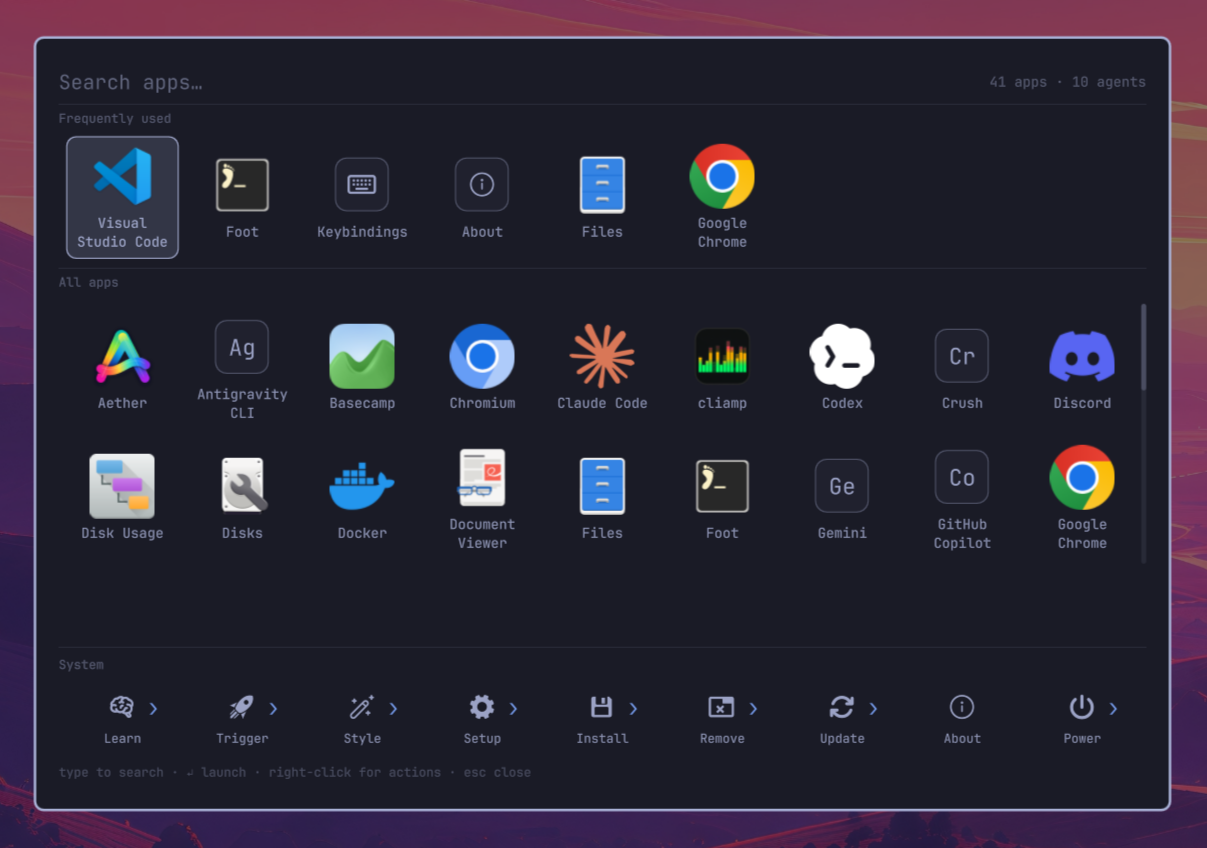
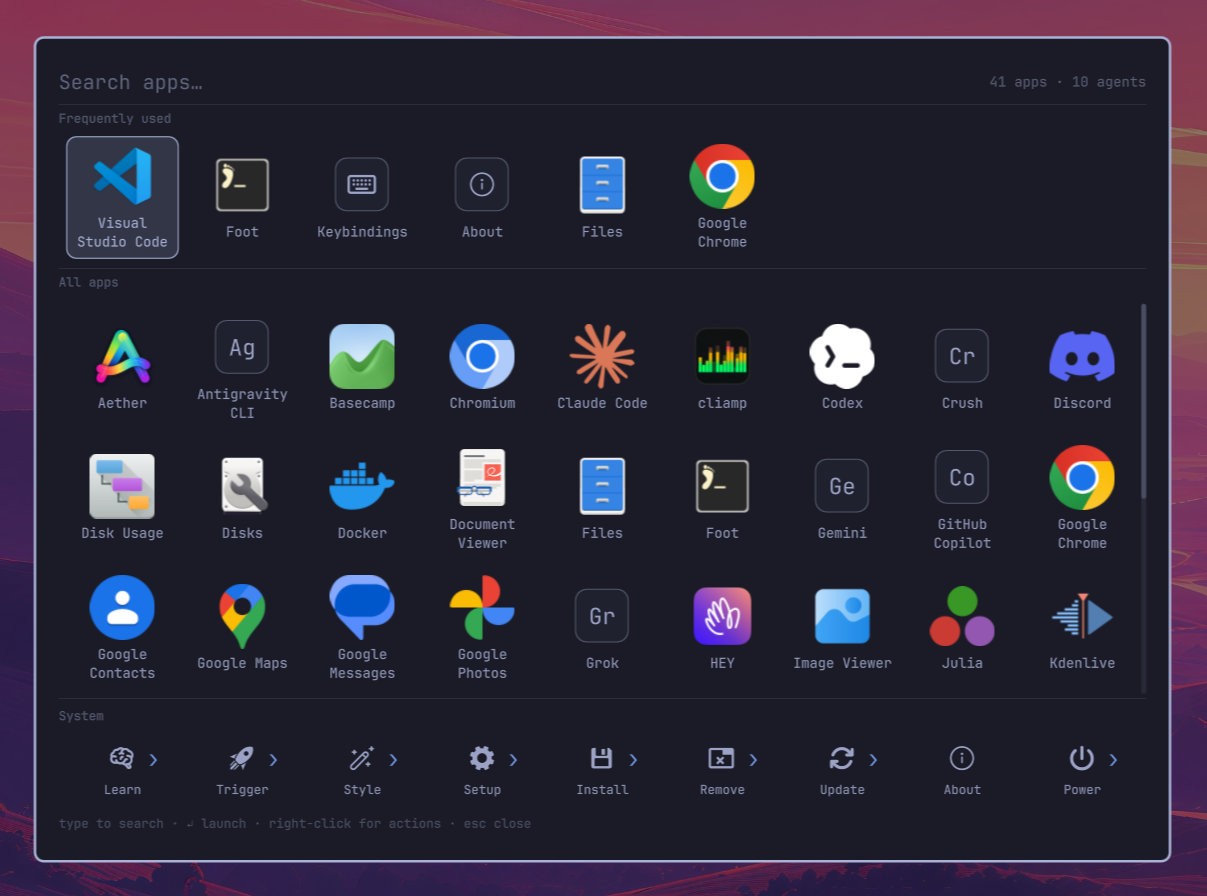
Size the card to whole application rows
The grid snaps to whole rows so the last one is never sliced, but the card's
height was a fixed 620, which is not a multiple of anything. The remainder --
63px, measured -- collected above the System divider and read as the grid
running out rather than as spacing. It also meant the System strip had cost
the grid a whole row: the card fit three rows of applications before, and two
after.

So the card now derives its height: chrome plus as many whole rows as fit.
Three rows again, and nothing left over.

The chrome is summed explicitly instead of measured as card.height minus
allArea.height, because the card's height is derived from it and reading it
back would be a binding loop. Every term is independent of the card's height,
and the sum was checked against the running layout before being relied on --
insets 40, header 34, rule 1, frequent 131, label 22, margins 9, system 90,
footer 22, totalling the 349 the instrumented build reported. A row or margin
added to the layout has to be added here too, which the comment says.

Measured as if not searching, so typing cannot resize the card under the
pointer -- verified identical at 824px idle and mid-query. A query frees the
frequent row's height and the grid takes it as extra rows.

Preview reshot: it was showing the sparse version.

diff --git a/AppGrid.qml b/AppGrid.qml
@@ -79,9 +79,10 @@ Item {
   // The strip is contextual: folders while browsing the launcher normally,
   // matching commands while a search is narrowing things down. Same pinned
   // place either way, so "system things live down there" stays true.
+  readonly property var systemRestRows: Menu.sectionRows(root.menuItems, root.menuOrder, root.whenResults, root.checkedResults)
   readonly property var systemRows: root.searching
     ? Menu.sortMatches(root.menuLeaves, root.filterText)
-    : Menu.sectionRows(root.menuItems, root.menuOrder, root.whenResults, root.checkedResults)
+    : root.systemRestRows
 
   // What the main grid shows: applications, or the folder being browsed.
   readonly property var displayRows: root.browsing
@@ -128,6 +129,7 @@ Item {
   readonly property int footerHeight: Style.font.caption + Style.spacing.md * 2
   readonly property int sectionLabelHeight: Style.font.caption + Style.spacing.md * 2
   readonly property int scrollBarWidth: Style.space(4)
+  readonly property int ruleHeight: Math.max(1, Style.space(1))
 
   // The System strip is navigation, not content, so its tiles are smaller than
   // an app tile: it costs one short row instead of a full grid row. The width
@@ -135,8 +137,43 @@ Item {
   // column-preserving up/down lands where the eye expects.
   readonly property int compactIconSize: Math.round(root.iconSize * 0.58)
   readonly property int compactCellWidth: root.cellWidth
-  readonly property int compactCellHeight: root.compactIconSize + Style.space(34)
+  readonly property int compactCellHeight: root.compactCellAtRest
     + (root.searching ? Style.font.caption + Style.space(3) : 0)
+  readonly property int compactCellAtRest: root.compactIconSize + Style.space(34)
+
+  // The card sizes itself to a whole number of application rows. The grid snaps
+  // to whole rows so the last one is never sliced, which means any height the
+  // card has beyond an exact multiple shows up as dead space above the System
+  // divider — 63px of it before this, enough to read as "the grid ran out".
+  //
+  // The chrome is summed explicitly rather than measured as `card.height -
+  // allArea.height`, because the card's height is derived from it and reading it
+  // back would be a binding loop. Every term below is independent of the card's
+  // height; if a row or margin is added to the layout it has to be added here
+  // too, or the dead space quietly returns.
+  //
+  // Measured "at rest" — as if not searching — so that typing cannot resize the
+  // card under the pointer. A query hides the frequent row, which frees height
+  // the grid takes as extra rows; whatever is left over then is a smaller gap in
+  // a view that is usually full anyway.
+  readonly property bool frequentAtRest: root.frequentPool.length > 0
+  readonly property bool systemAtRest: root.systemRestRows.length > 0
+  readonly property int stripRowsAtRest: Math.min(2, Math.max(1,
+    Math.ceil(root.systemRestRows.length / Math.max(1, panel.columns))))
+
+  readonly property int cardChrome:
+      card.contentTopInset + card.contentBottomInset
+    + root.headerHeight + root.ruleHeight
+    + (root.frequentAtRest ? root.sectionLabelHeight + root.cellHeight + Style.spacing.sm + root.ruleHeight : 0)
+    + (root.frequentAtRest ? root.sectionLabelHeight : 0)
+    + Style.spacing.md + Style.spacing.xs
+    + (root.systemAtRest ? Style.spacing.xs + root.ruleHeight + root.sectionLabelHeight
+                           + root.stripRowsAtRest * root.compactCellAtRest : 0)
+    + root.footerHeight
+
+  readonly property int cardMaxHeight: Math.min(Style.space(760), panel.height - Style.gapsOut * 2)
+  readonly property int cardGridRows: Math.max(1,
+    Math.floor((root.cardMaxHeight - root.cardChrome) / root.cellHeight))
 
   // ------------------------------------------------------------ lifecycle
 
@@ -828,7 +865,7 @@ Item {
     BorderSurface {
       id: card
       width: panel.gridWidth + root.contentMargin * 2 + root.scrollBarWidth + Style.spacing.md
-      height: Math.min(Style.space(620), panel.height - Style.gapsOut * 2)
+      height: Math.min(root.cardMaxHeight, root.cardChrome + root.cardGridRows * root.cellHeight)
       radius: root.cornerRadius
       anchors.centerIn: parent
       color: root.background

diff --git a/CHANGELOG.md b/CHANGELOG.md
@@ -28,6 +28,11 @@ Changes are grouped under `Added`, `Changed`, `Fixed`, `Removed`, `Deprecated`, 
 
 ### Changed
 
+- The card sizes itself to a whole number of application rows. The grid snaps to
+  whole rows so the last is never sliced, and the fixed card height left 63px
+  over — a half-row of dead space above the System divider that read as the grid
+  running out. Removing it also recovers the application row the System strip had
+  cost, so the grid is back to the density it had before the section existed.
 - Folder tiles in the main grid carry the same `›` marker the System strip uses.
   Inside a folder some tiles open and some run, and nothing distinguished them:
   `Install` listed Development beside Windows identically.
